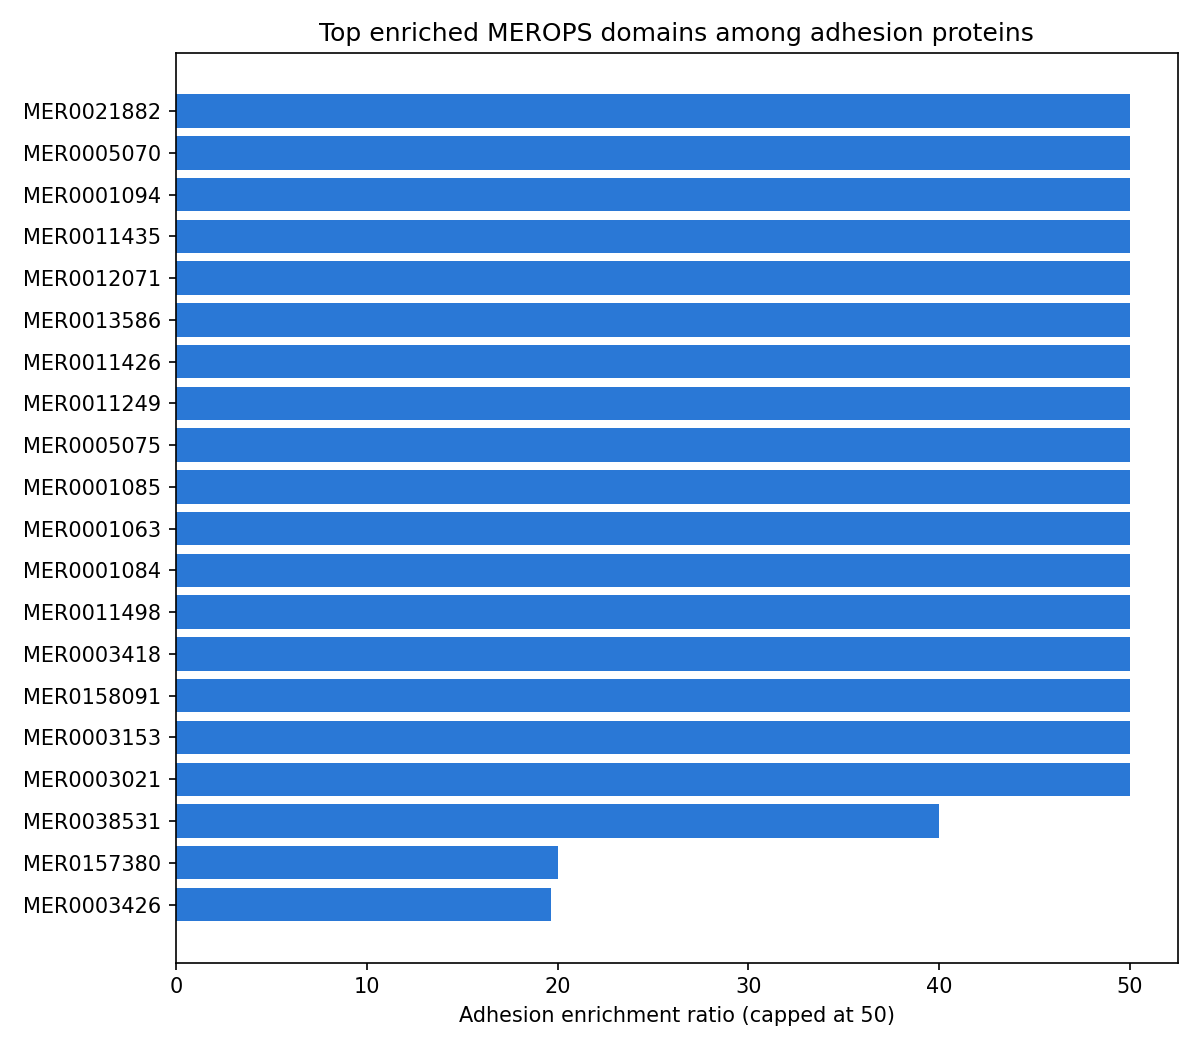
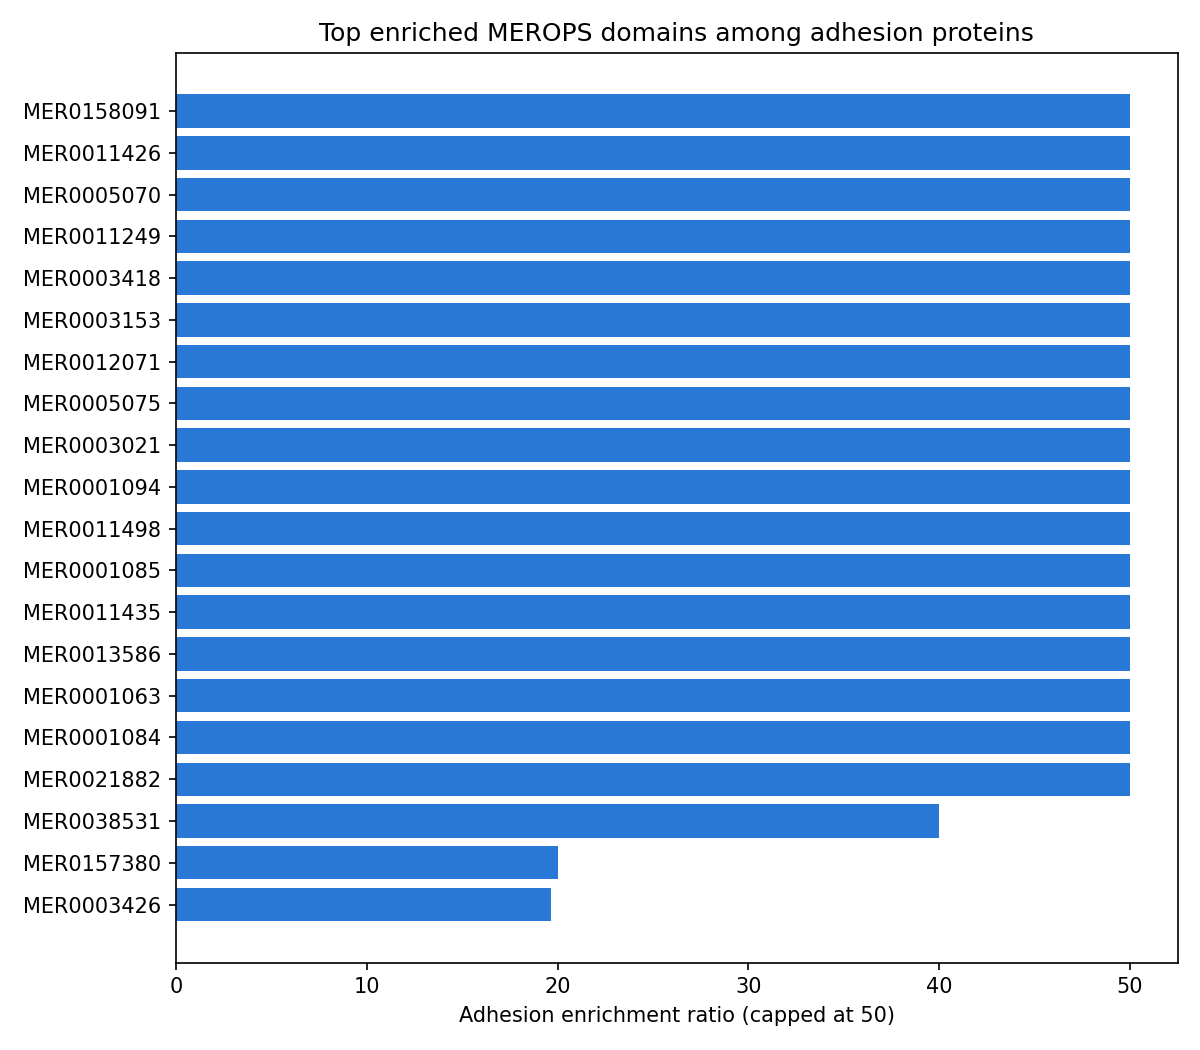
Fix final-review findings: deterministic domain-table sort, report overclaims, missing caveats
- domains.py: top_domain_table now sorts by
  [enrichment_ratio, adhesion_count] with a stable mergesort instead of the
  default (unstable) quicksort, so which domains land in the top-20 among
  enrichment_ratio=inf ties is no longer an artifact of pivot choice.
- stats_ext.py: mannwhitney_within_clade returns a well-formed empty
  DataFrame (expected columns) instead of a bare pd.DataFrame() when no
  clade is eligible, so downstream to_csv()/read_csv() round-trips
  without an EmptyDataError; added a regression test.
- 06_generate_report.py: rewrote the Headline Findings prose to describe
  the top-domain tables accurately (frequency among background-absent
  ties, not "not a random grab-bag"), correct the scatter-plot claim
  (overplotted at n=749,697, not evidence of "no trend"), quote the
  correct p_value_bh for Mucoromycota length, and account for all 9
  phyla (Sanchytriomycota was previously omitted). Added three new
  caveats: prediction-set circularity (classifier reads back ESM-2
  composition signal), CAZy AA1/laccase enrichment as a possible
  classifier-artifact red flag rather than settled biology, and a
  caveat that large-N p-values need the already-computed
  epsilon_squared/medians to judge practical effect size.
- Re-ran 02_query_functional_domains.py, 05_make_figures.py, and
  06_generate_report.py on the real data to regenerate
  top_domains_{pfam,cazy,merops}.csv/png and REPORT.md with the new
  deterministic sort.

diff --git a/analysis/adhesion_properties/06_generate_report.py b/analysis/adhesion_properties/06_generate_report.py
@@ -133,25 +133,35 @@ proteins), since Ser/Thr residues are the attachment sites for the
 O-mannosylation that decorates these surface proteins.
 
 Length shows no such uniform pattern (`tables/clade_phylum_length_mannwhitney.csv`):
-in the two best-powered phyla, adhesion proteins are actually *shorter* than
+of the 9 phyla tested, 6 remain significant after BH correction. In the two
+best-powered phyla, adhesion proteins are actually *shorter* than
 background (Ascomycota: median 345 vs. 400 aa, n=555,861 each, p_bh≈0;
 Basidiomycota: 310 vs. 362 aa, n=135,340 each, p_bh≈0), as are Mucoromycota
-(302 vs. 322 aa, p_bh≈4.6e-32) and Zoopagomycota (338 vs. 357 aa, p_bh≈0.0082),
-while Chytridiomycota goes the other way (432 vs. 364 aa, p_bh≈5.3e-116) and
-Blastocladiomycota, Cryptomycota, and Microsporidia show no significant
-difference after correction (p_bh=0.61, 0.47, 0.19 respectively). So unlike
-Ser/Thr/Pro content, length is not a lineage-independent signature of the
-adhesion-predicted set.
+(302 vs. 322 aa, p_bh≈1.04e-31) and Zoopagomycota (338 vs. 357 aa, p_bh≈0.0082),
+while two phyla go the other way — adhesion proteins *longer* than
+background — Chytridiomycota (432 vs. 364 aa, n=14,817 each, p_bh≈5.3e-116)
+and, at much lower power, Sanchytriomycota (445.5 vs. 323 aa, n=28 each,
+p_bh≈0.0449, the weakest of the six significant results). The remaining 3
+phyla — Blastocladiomycota,
+Cryptomycota, and Microsporidia — show no significant difference after
+correction (p_bh=0.61, 0.47, 0.19 respectively). So unlike Ser/Thr/Pro
+content, length is not a lineage-independent signature of the
+adhesion-predicted set, and its direction is not even consistent in sign
+across the phyla where it is significant.
 
-Visually, neither `figures/scatter_length_vs_probability.png` nor
-`figures/scatter_pct_ser_thr_pro_vs_probability.png` shows a discernible trend:
-in both plots the classifier's predicted probability spans its full 0.5-1.0
-range densely at essentially every length and every Ser/Thr/Pro percentage,
-with no visible upward or downward slope in the point cloud — model confidence
-does not appear to track either feature. `figures/scatter_species_mean_length_vs_fraction.png`
-is similarly a diffuse cloud centered around 400-500 aa mean length and a
-1-2% species adhesion fraction, with no visible trend as mean length
-increases toward 1000-1400 aa.
+`figures/scatter_length_vs_probability.png` and
+`figures/scatter_pct_ser_thr_pro_vs_probability.png` are heavily overplotted
+at n=749,697 points each (drawn at alpha=0.3, s=10) and cannot reliably show
+a density trend by eye at this scale — the dense region of the point cloud
+saturates into a solid block regardless of whether an underlying trend
+exists. We do not claim "no relationship" from these plots; assessing
+whether model confidence tracks length or Ser/Thr/Pro content would require
+a binned-median or hexbin view, which is left for a follow-up (see Follow-up
+section). `figures/scatter_species_mean_length_vs_fraction.png` is plotted
+at the species level (one point per species, not per protein) and so is not
+subject to the same overplotting problem; it is a diffuse cloud centered
+around 400-500 aa mean length and a 1-2% species adhesion fraction, with no
+visible trend as mean length increases toward 1000-1400 aa.
 
 Domain/topology presence also diverges sharply from length in how consistent
 it is across phyla: adhesion proteins carry a signal peptide far more often
@@ -165,20 +175,35 @@ of the adhesion set carries no recognized Pfam domain at all, consistent with
 many fungal adhesins being fast-evolving, repeat-rich, poorly conserved
 sequences that escape standard domain databases.
 
-Among proteins that *do* have a domain hit, the specific families point at a
-coherent cell-surface/carbohydrate-interaction narrative rather than a random
-grab-bag. In `tables/top_domains_pfam.csv`, the top Pfam hits among
-adhesion-predicted proteins include Lectin_C (13 adhesion hits, 0 background)
-and two laminin domains, Laminin_G_2 and Laminin_EGF (5 and 14 adhesion hits,
-0 background) — all three are extracellular carbohydrate/glycoprotein-binding
-modules of the kind found in cell-adhesion proteins — alongside Kazal_1 (97
-adhesion hits, the single highest count in the table, 0 background) and
-DUF11 (51 hits), a domain of unknown function repeatedly reported in fungal
-cell-wall/adhesin-like proteins. In `tables/top_domains_cazy.csv`, the most
+Among proteins that *do* have a domain hit, `tables/top_domains_pfam.csv`
+shows the most frequent Pfam domains among adhesion-predicted proteins that
+have zero occurrences in the size-matched background sample: 826 distinct
+Pfam domains met the ≥5-adhesion-hit threshold for inclusion in this table,
+of which 95 have `background_count=0` (an infinite, tie-classed enrichment
+ratio); ties are broken by adhesion-hit count (`domains.py`'s
+`top_domain_table`, sorted on `["enrichment_ratio", "adhesion_count"]` with a
+stable mergesort), so the table is deterministic and reproducible but the
+particular 20 domains shown are the most *frequent* background-absent
+domains, not necessarily the most *biologically distinctive* ones among the
+full set of 95. With that framing, the top hits are Flocculin (1,493
+adhesion hits, 0 background) — a domain named for and found in the
+fungal flocculin/FLO-family adhesins that this whole analysis is built
+around — and Hyr1 (586 hits), a domain associated with the *Candida*
+Hyr1/Iff GPI-anchored cell-wall protein family, both consistent with the
+adhesin narrative; also present are Cadherin_4 (94 hits) and Ig_3 (32
+hits), both cell-adhesion-associated repeat domains, Msg2_C (198 hits, the
+C-terminal domain of *Pneumocystis* major surface glycoprotein, a surface
+adhesin family in another fungal lineage), and several domains of unknown
+function (DUF5077, DUF3246, DUF11, DUF4573, DUF6209, DUF642) that recur in
+this kind of screen without a resolvable functional annotation. In
+`tables/top_domains_cazy.csv`, the most
 enriched families by finite ratio are AA1_3 (12,493 adhesion hits vs. only 2
 background, ratio≈6246.5) and AA1_1 (9,279 vs. 5, ratio≈1855.8) — both
-"Auxiliary Activity family 1" multicopper-oxidase/laccase domains implicated
-in fungal cell-wall remodeling and melanization — plus a cluster of
+"Auxiliary Activity family 1" multicopper-oxidase/laccase domains, an enzyme
+family sometimes discussed in the context of fungal cell-wall remodeling and
+melanization, though see Caveat 7 below on why an enrichment of this
+magnitude should not be treated as settled functional evidence — plus a
+cluster of
 carbohydrate-binding modules (CBM29, CBM6, CBM43, CBM24, CBM63, CBM20) that
 have no catalytic activity of their own but mediate binding to cell-wall or
 extracellular polysaccharides, exactly the kind of adhesive function this
@@ -231,6 +256,42 @@ MEROPS chart is not "every bar tied at the cap."
    tables are BH-corrected *within* each (rank, feature) combination, not
    jointly across every feature/rank combination in this report — a
    stricter joint correction would raise the significance bar further.
+6. **Prediction-set circularity**: the "adhesion" set analyzed throughout
+   this report is model-*predicted*, not experimentally validated — it is
+   the output of a classifier trained on ESM-2 protein embeddings, which
+   themselves encode amino acid composition. So the headline finding that
+   "adhesion-predicted proteins are Ser/Thr/Pro-rich" partly reflects the
+   classifier's own decision function reading back a composition signal
+   correlated with its training set (FLO11/ALS-family sequences), not
+   necessarily an independent biological discovery about a held-out
+   ground truth. Treat this analysis as characterizing what the model
+   learned to call "adhesion-like," not as an independent confirmation
+   that these proteins are adhesins.
+7. **CAZy AA1 (laccase) enrichment is a red flag, not just supporting
+   evidence** — summed across the AA1/AA1_1/AA1_2/AA1_3 subfamily entries
+   in `tables/top_domains_cazy.csv`, 52,697 adhesion-predicted proteins
+   carry an AA1-family domain versus only 33 in the size-matched
+   background (a ratio of roughly 1,597-fold; see the table for
+   per-subfamily counts). Laccases (multicopper oxidases) are secreted
+   **enzymes**, the opposite of the non-enzymatic surface-adhesin category
+   this analysis is targeting per the design spec. An enrichment of this
+   magnitude is at least as consistent with a systematic classifier
+   false-positive mode (e.g. shared secretion-signal or compositional
+   features between laccases and true adhesins driving spurious positive
+   calls) or an artifact of the training-set composition as it is with
+   "laccases are adhesive" — it should not be presented as settled
+   functional evidence without this caveat.
+8. **P-values at this sample size are not effect sizes**: several
+   Mann-Whitney tables compare hundreds of thousands of proteins per group
+   (e.g. n=555,861 for Ascomycota) — at this scale, p≈0 is close to
+   inevitable even for practically negligible effects. Readers should
+   judge practical magnitude from the reported medians (already shown in
+   each table) and, where available, the `epsilon_squared` column already
+   computed in the `*_omnibus_*.csv` files (e.g.
+   `clade_phylum_length_omnibus_adhesion.csv` reports
+   `epsilon_squared`≈0.0067 for the phylum effect on length — a negligible
+   clade effect despite p≈0 in the pairwise tests) rather than treating a
+   tiny p-value alone as evidence of a large or important effect.
 
 ## Follow-up
 

diff --git a/tests/adhesion_properties/test_stats_ext.py b/tests/adhesion_properties/test_stats_ext.py
@@ -44,3 +44,23 @@ def test_mannwhitney_within_clade_excludes_small_n_clades():
     background = _clade_df(["PhylumSmall"] * 10, list(range(100, 110)))
     result = mannwhitney_within_clade(adhesion, background, "phylum", "length")
     assert result.empty
+
+
+def test_mannwhitney_within_clade_empty_result_has_expected_columns():
+    """No clade is eligible for testing (both below MIN_GROUP_N) -> result
+    must be an empty-but-well-formed DataFrame, not a bare pd.DataFrame(),
+    so downstream to_csv()/read_csv() round-trips without an EmptyDataError."""
+    adhesion = _clade_df(["PhylumSmall"] * 2, [100, 110])
+    background = _clade_df(["PhylumSmall"] * 2, [90, 95])
+    result = mannwhitney_within_clade(adhesion, background, "phylum", "length")
+    assert result.empty
+    assert list(result.columns) == [
+        "phylum",
+        "n_adhesion",
+        "n_background",
+        "median_adhesion",
+        "median_background",
+        "u_stat",
+        "p_value",
+        "p_value_bh",
+    ]

diff --git a/analysis/adhesion_properties/stats_ext.py b/analysis/adhesion_properties/stats_ext.py
@@ -67,8 +67,21 @@ def mannwhitney_within_clade(
             }
         )
 
+    if not rows:
+        return pd.DataFrame(
+            columns=[
+                rank_col,
+                "n_adhesion",
+                "n_background",
+                "median_adhesion",
+                "median_background",
+                "u_stat",
+                "p_value",
+                "p_value_bh",
+            ]
+        )
+
     result = pd.DataFrame(rows)
-    if not result.empty:
-        _, corrected, _, _ = multipletests(result["p_value"], method="fdr_bh")
-        result["p_value_bh"] = corrected
+    _, corrected, _, _ = multipletests(result["p_value"], method="fdr_bh")
+    result["p_value_bh"] = corrected
     return result

diff --git a/analysis/adhesion_properties/domains.py b/analysis/adhesion_properties/domains.py
@@ -114,4 +114,6 @@ def top_domain_table(
     if result.empty:
         return result
     frequent = result[result["adhesion_count"] >= MIN_ADHESION_COUNT_FOR_ENRICHMENT]
-    return frequent.sort_values("enrichment_ratio", ascending=False).head(top_n)
+    return frequent.sort_values(
+        ["enrichment_ratio", "adhesion_count"], ascending=False, kind="mergesort"
+    ).head(top_n)

diff --git a/analysis/adhesion_properties/REPORT.md b/analysis/adhesion_properties/REPORT.md
@@ -77,17 +77,17 @@ Blastocladiomycota         938           938        27.333661          19.499717
 ## Top enriched Pfam domains among adhesion proteins
 
 ```
-      domain_id  adhesion_count  adhesion_rate  background_count  background_rate  enrichment_ratio
-             3D               6       0.000008                 0              0.0               inf
- Apolipoprotein               9       0.000012                 0              0.0               inf
-Cu-binding_MopE               6       0.000008                 0              0.0               inf
- Pericardin_rpt               5       0.000007                 0              0.0               inf
-Lustrin_cystein               9       0.000012                 0              0.0               inf
-   Cupredoxin_1              27       0.000036                 0              0.0               inf
-     Curlin_rpt               6       0.000008                 0              0.0               inf
-       Lectin_C              13       0.000017                 0              0.0               inf
-   LbR_Ice_bind              12       0.000016                 0              0.0               inf
-    Laminin_G_2               5       0.000007                 0              0.0               inf
+ domain_id  adhesion_count  adhesion_rate  background_count  background_rate  enrichment_ratio
+ Flocculin            1493       0.001991                 0              0.0               inf
+      Hyr1             586       0.000782                 0              0.0               inf
+    Msg2_C             198       0.000264                 0              0.0               inf
+   Kazal_1              97       0.000129                 0              0.0               inf
+Cadherin_4              94       0.000125                 0              0.0               inf
+   DUF5077              81       0.000108                 0              0.0               inf
+   DUF3246              57       0.000076                 0              0.0               inf
+    FIT1_2              53       0.000071                 0              0.0               inf
+  Cornifin              52       0.000069                 0              0.0               inf
+     DUF11              51       0.000068                 0              0.0               inf
 ```
 
 ![Top enriched Pfam domains](figures/top_domains_pfam.png)
@@ -125,25 +125,35 @@ proteins), since Ser/Thr residues are the attachment sites for the
 O-mannosylation that decorates these surface proteins.
 
 Length shows no such uniform pattern (`tables/clade_phylum_length_mannwhitney.csv`):
-in the two best-powered phyla, adhesion proteins are actually *shorter* than
+of the 9 phyla tested, 6 remain significant after BH correction. In the two
+best-powered phyla, adhesion proteins are actually *shorter* than
 background (Ascomycota: median 345 vs. 400 aa, n=555,861 each, p_bh≈0;
 Basidiomycota: 310 vs. 362 aa, n=135,340 each, p_bh≈0), as are Mucoromycota
-(302 vs. 322 aa, p_bh≈4.6e-32) and Zoopagomycota (338 vs. 357 aa, p_bh≈0.0082),
-while Chytridiomycota goes the other way (432 vs. 364 aa, p_bh≈5.3e-116) and
-Blastocladiomycota, Cryptomycota, and Microsporidia show no significant
-difference after correction (p_bh=0.61, 0.47, 0.19 respectively). So unlike
-Ser/Thr/Pro content, length is not a lineage-independent signature of the
-adhesion-predicted set.
+(302 vs. 322 aa, p_bh≈1.04e-31) and Zoopagomycota (338 vs. 357 aa, p_bh≈0.0082),
+while two phyla go the other way — adhesion proteins *longer* than
+background — Chytridiomycota (432 vs. 364 aa, n=14,817 each, p_bh≈5.3e-116)
+and, at much lower power, Sanchytriomycota (445.5 vs. 323 aa, n=28 each,
+p_bh≈0.0449, the weakest of the six significant results). The remaining 3
+phyla — Blastocladiomycota,
+Cryptomycota, and Microsporidia — show no significant difference after
+correction (p_bh=0.61, 0.47, 0.19 respectively). So unlike Ser/Thr/Pro
+content, length is not a lineage-independent signature of the
+adhesion-predicted set, and its direction is not even consistent in sign
+across the phyla where it is significant.
 
-Visually, neither `figures/scatter_length_vs_probability.png` nor
-`figures/scatter_pct_ser_thr_pro_vs_probability.png` shows a discernible trend:
-in both plots the classifier's predicted probability spans its full 0.5-1.0
-range densely at essentially every length and every Ser/Thr/Pro percentage,
-with no visible upward or downward slope in the point cloud — model confidence
-does not appear to track either feature. `figures/scatter_species_mean_length_vs_fraction.png`
-is similarly a diffuse cloud centered around 400-500 aa mean length and a
-1-2% species adhesion fraction, with no visible trend as mean length
-increases toward 1000-1400 aa.
+`figures/scatter_length_vs_probability.png` and
+`figures/scatter_pct_ser_thr_pro_vs_probability.png` are heavily overplotted
+at n=749,697 points each (drawn at alpha=0.3, s=10) and cannot reliably show
+a density trend by eye at this scale — the dense region of the point cloud
+saturates into a solid block regardless of whether an underlying trend
+exists. We do not claim "no relationship" from these plots; assessing
+whether model confidence tracks length or Ser/Thr/Pro content would require
+a binned-median or hexbin view, which is left for a follow-up (see Follow-up
+section). `figures/scatter_species_mean_length_vs_fraction.png` is plotted
+at the species level (one point per species, not per protein) and so is not
+subject to the same overplotting problem; it is a diffuse cloud centered
+around 400-500 aa mean length and a 1-2% species adhesion fraction, with no
+visible trend as mean length increases toward 1000-1400 aa.
 
 Domain/topology presence also diverges sharply from length in how consistent
 it is across phyla: adhesion proteins carry a signal peptide far more often
@@ -157,20 +167,35 @@ of the adhesion set carries no recognized Pfam domain at all, consistent with
 many fungal adhesins being fast-evolving, repeat-rich, poorly conserved
 sequences that escape standard domain databases.
 
-Among proteins that *do* have a domain hit, the specific families point at a
-coherent cell-surface/carbohydrate-interaction narrative rather than a random
-grab-bag. In `tables/top_domains_pfam.csv`, the top Pfam hits among
-adhesion-predicted proteins include Lectin_C (13 adhesion hits, 0 background)
-and two laminin domains, Laminin_G_2 and Laminin_EGF (5 and 14 adhesion hits,
-0 background) — all three are extracellular carbohydrate/glycoprotein-binding
-modules of the kind found in cell-adhesion proteins — alongside Kazal_1 (97
-adhesion hits, the single highest count in the table, 0 background) and
-DUF11 (51 hits), a domain of unknown function repeatedly reported in fungal
-cell-wall/adhesin-like proteins. In `tables/top_domains_cazy.csv`, the most
+Among proteins that *do* have a domain hit, `tables/top_domains_pfam.csv`
+shows the most frequent Pfam domains among adhesion-predicted proteins that
+have zero occurrences in the size-matched background sample: 826 distinct
+Pfam domains met the ≥5-adhesion-hit threshold for inclusion in this table,
+of which 95 have `background_count=0` (an infinite, tie-classed enrichment
+ratio); ties are broken by adhesion-hit count (`domains.py`'s
+`top_domain_table`, sorted on `["enrichment_ratio", "adhesion_count"]` with a
+stable mergesort), so the table is deterministic and reproducible but the
+particular 20 domains shown are the most *frequent* background-absent
+domains, not necessarily the most *biologically distinctive* ones among the
+full set of 95. With that framing, the top hits are Flocculin (1,493
+adhesion hits, 0 background) — a domain named for and found in the
+fungal flocculin/FLO-family adhesins that this whole analysis is built
+around — and Hyr1 (586 hits), a domain associated with the *Candida*
+Hyr1/Iff GPI-anchored cell-wall protein family, both consistent with the
+adhesin narrative; also present are Cadherin_4 (94 hits) and Ig_3 (32
+hits), both cell-adhesion-associated repeat domains, Msg2_C (198 hits, the
+C-terminal domain of *Pneumocystis* major surface glycoprotein, a surface
+adhesin family in another fungal lineage), and several domains of unknown
+function (DUF5077, DUF3246, DUF11, DUF4573, DUF6209, DUF642) that recur in
+this kind of screen without a resolvable functional annotation. In
+`tables/top_domains_cazy.csv`, the most
 enriched families by finite ratio are AA1_3 (12,493 adhesion hits vs. only 2
 background, ratio≈6246.5) and AA1_1 (9,279 vs. 5, ratio≈1855.8) — both
-"Auxiliary Activity family 1" multicopper-oxidase/laccase domains implicated
-in fungal cell-wall remodeling and melanization — plus a cluster of
+"Auxiliary Activity family 1" multicopper-oxidase/laccase domains, an enzyme
+family sometimes discussed in the context of fungal cell-wall remodeling and
+melanization, though see Caveat 7 below on why an enrichment of this
+magnitude should not be treated as settled functional evidence — plus a
+cluster of
 carbohydrate-binding modules (CBM29, CBM6, CBM43, CBM24, CBM63, CBM20) that
 have no catalytic activity of their own but mediate binding to cell-wall or
 extracellular polysaccharides, exactly the kind of adhesive function this
@@ -223,6 +248,42 @@ MEROPS chart is not "every bar tied at the cap."
    tables are BH-corrected *within* each (rank, feature) combination, not
    jointly across every feature/rank combination in this report — a
    stricter joint correction would raise the significance bar further.
+6. **Prediction-set circularity**: the "adhesion" set analyzed throughout
+   this report is model-*predicted*, not experimentally validated — it is
+   the output of a classifier trained on ESM-2 protein embeddings, which
+   themselves encode amino acid composition. So the headline finding that
+   "adhesion-predicted proteins are Ser/Thr/Pro-rich" partly reflects the
+   classifier's own decision function reading back a composition signal
+   correlated with its training set (FLO11/ALS-family sequences), not
+   necessarily an independent biological discovery about a held-out
+   ground truth. Treat this analysis as characterizing what the model
+   learned to call "adhesion-like," not as an independent confirmation
+   that these proteins are adhesins.
+7. **CAZy AA1 (laccase) enrichment is a red flag, not just supporting
+   evidence** — summed across the AA1/AA1_1/AA1_2/AA1_3 subfamily entries
+   in `tables/top_domains_cazy.csv`, 52,697 adhesion-predicted proteins
+   carry an AA1-family domain versus only 33 in the size-matched
+   background (a ratio of roughly 1,597-fold; see the table for
+   per-subfamily counts). Laccases (multicopper oxidases) are secreted
+   **enzymes**, the opposite of the non-enzymatic surface-adhesin category
+   this analysis is targeting per the design spec. An enrichment of this
+   magnitude is at least as consistent with a systematic classifier
+   false-positive mode (e.g. shared secretion-signal or compositional
+   features between laccases and true adhesins driving spurious positive
+   calls) or an artifact of the training-set composition as it is with
+   "laccases are adhesive" — it should not be presented as settled
+   functional evidence without this caveat.
+8. **P-values at this sample size are not effect sizes**: several
+   Mann-Whitney tables compare hundreds of thousands of proteins per group
+   (e.g. n=555,861 for Ascomycota) — at this scale, p≈0 is close to
+   inevitable even for practically negligible effects. Readers should
+   judge practical magnitude from the reported medians (already shown in
+   each table) and, where available, the `epsilon_squared` column already
+   computed in the `*_omnibus_*.csv` files (e.g.
+   `clade_phylum_length_omnibus_adhesion.csv` reports
+   `epsilon_squared`≈0.0067 for the phylum effect on length — a negligible
+   clade effect despite p≈0 in the pairwise tests) rather than treating a
+   tiny p-value alone as evidence of a large or important effect.
 
 ## Follow-up
 
